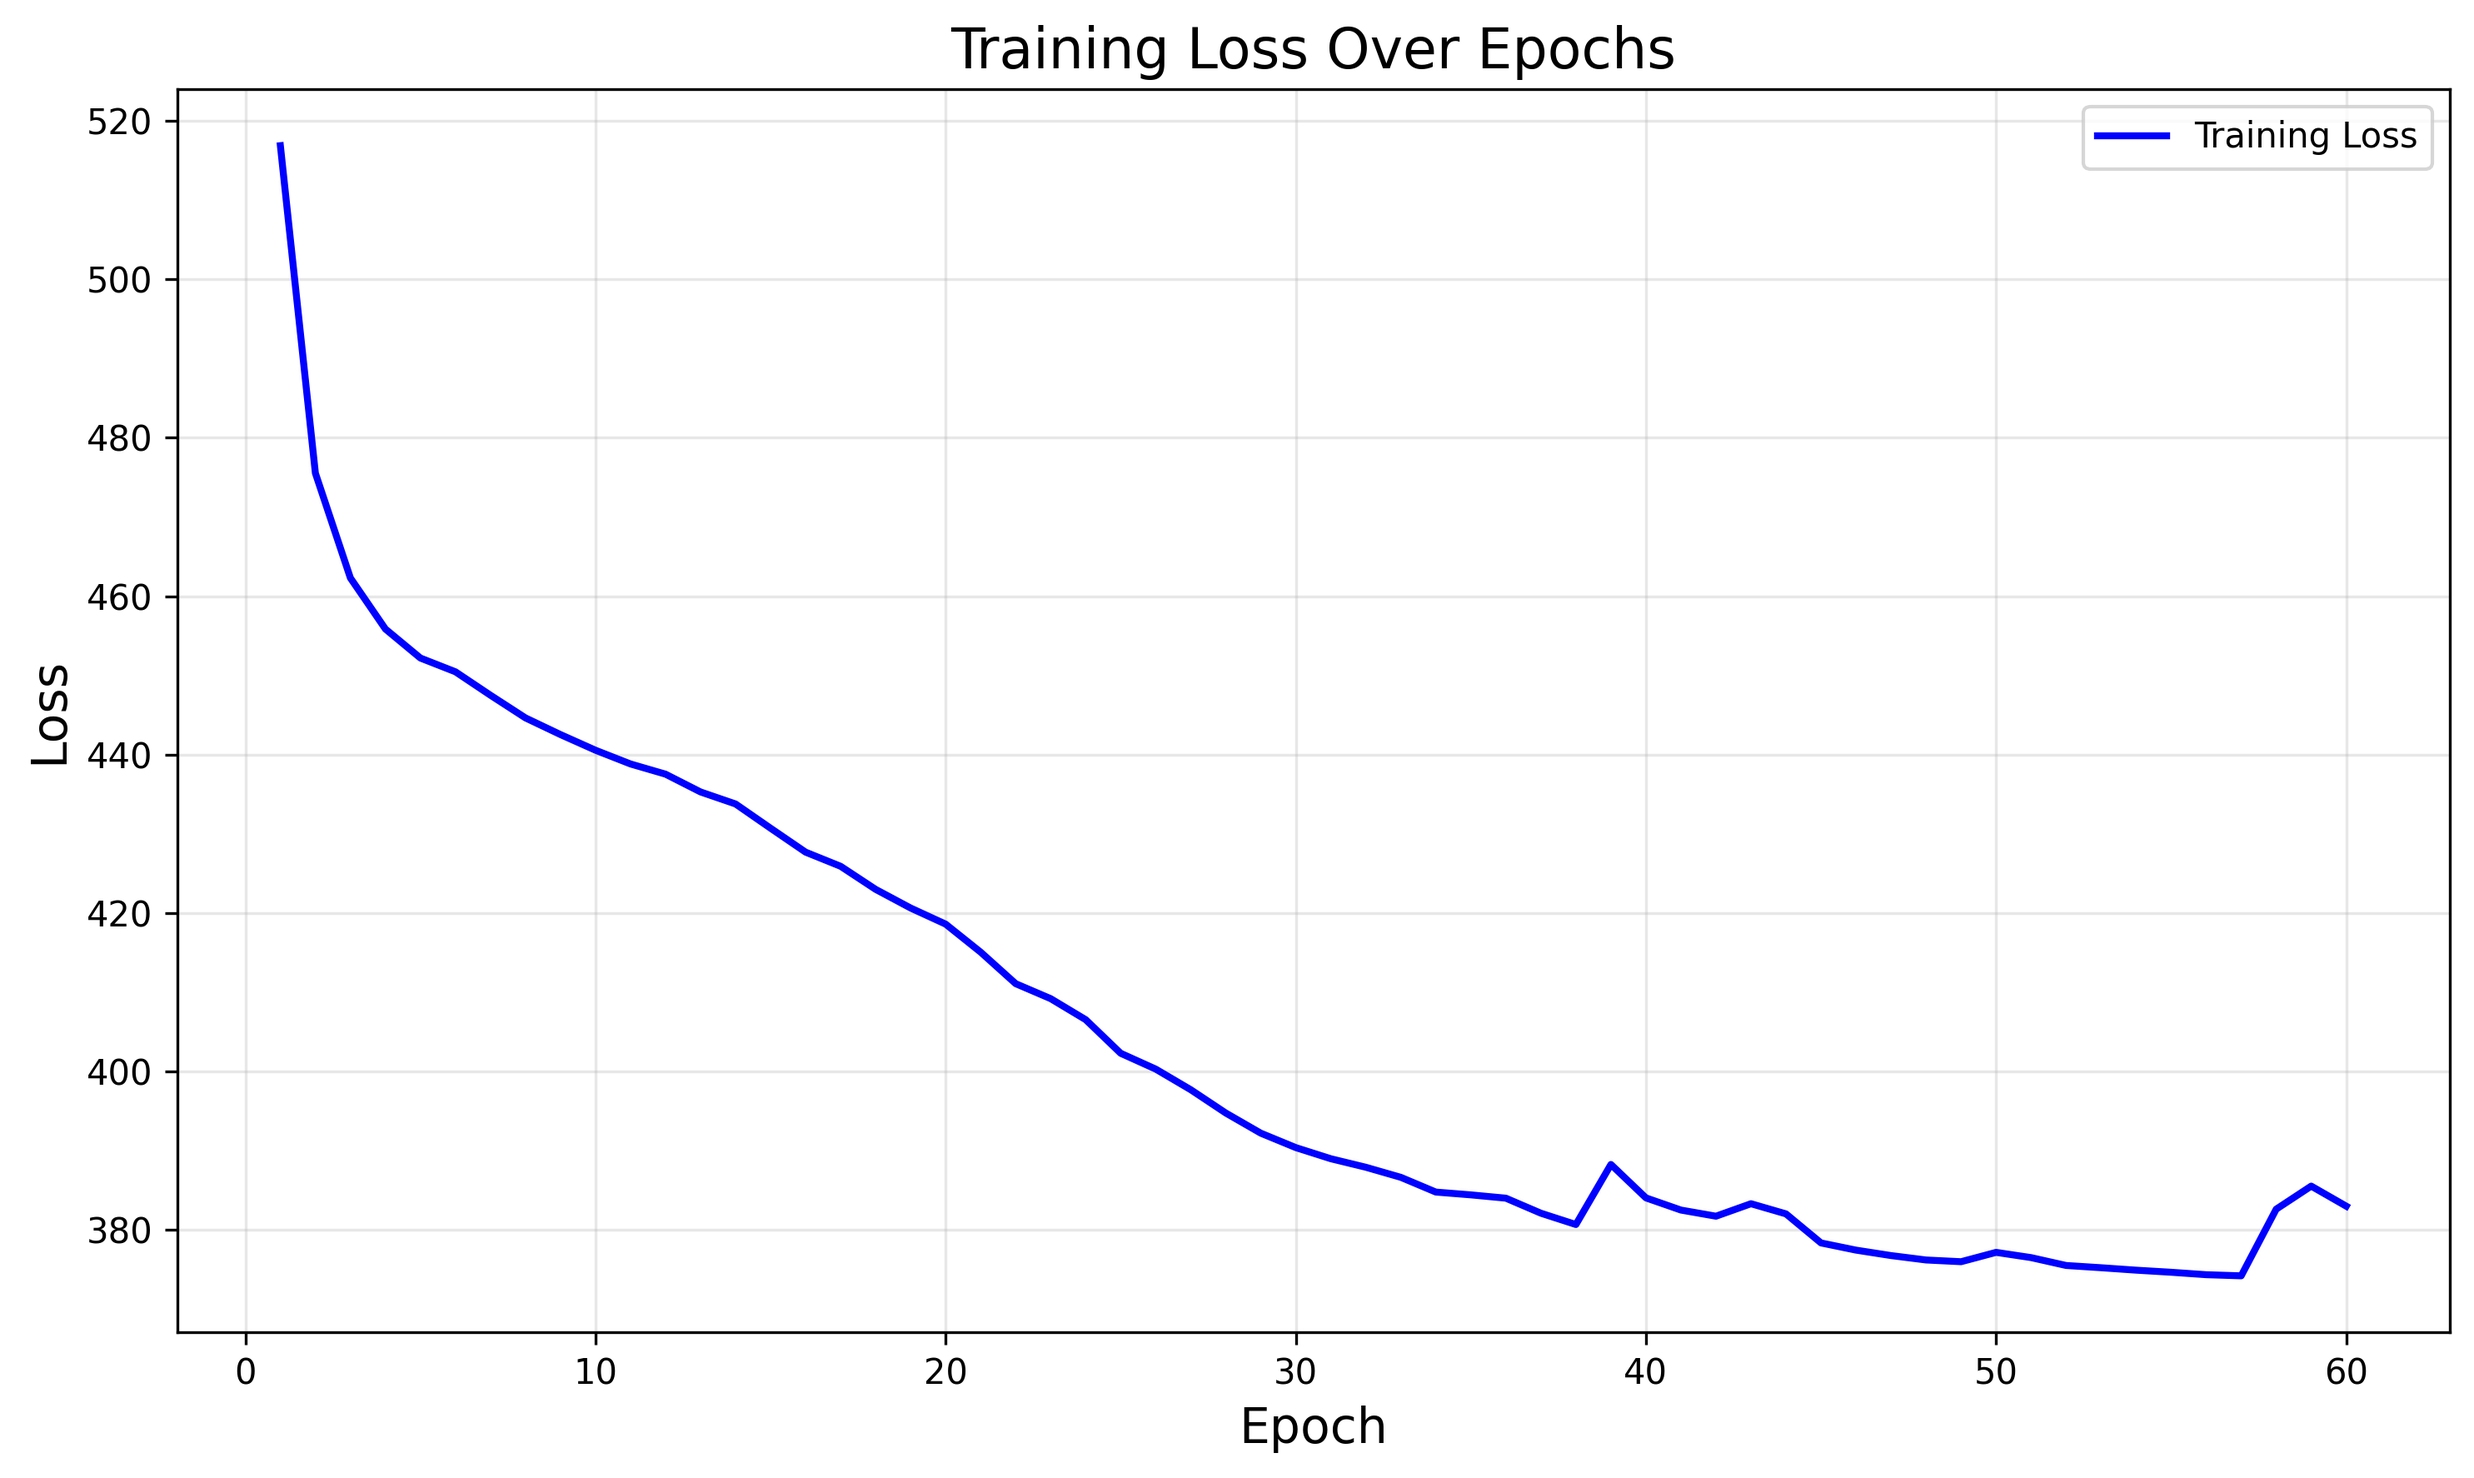
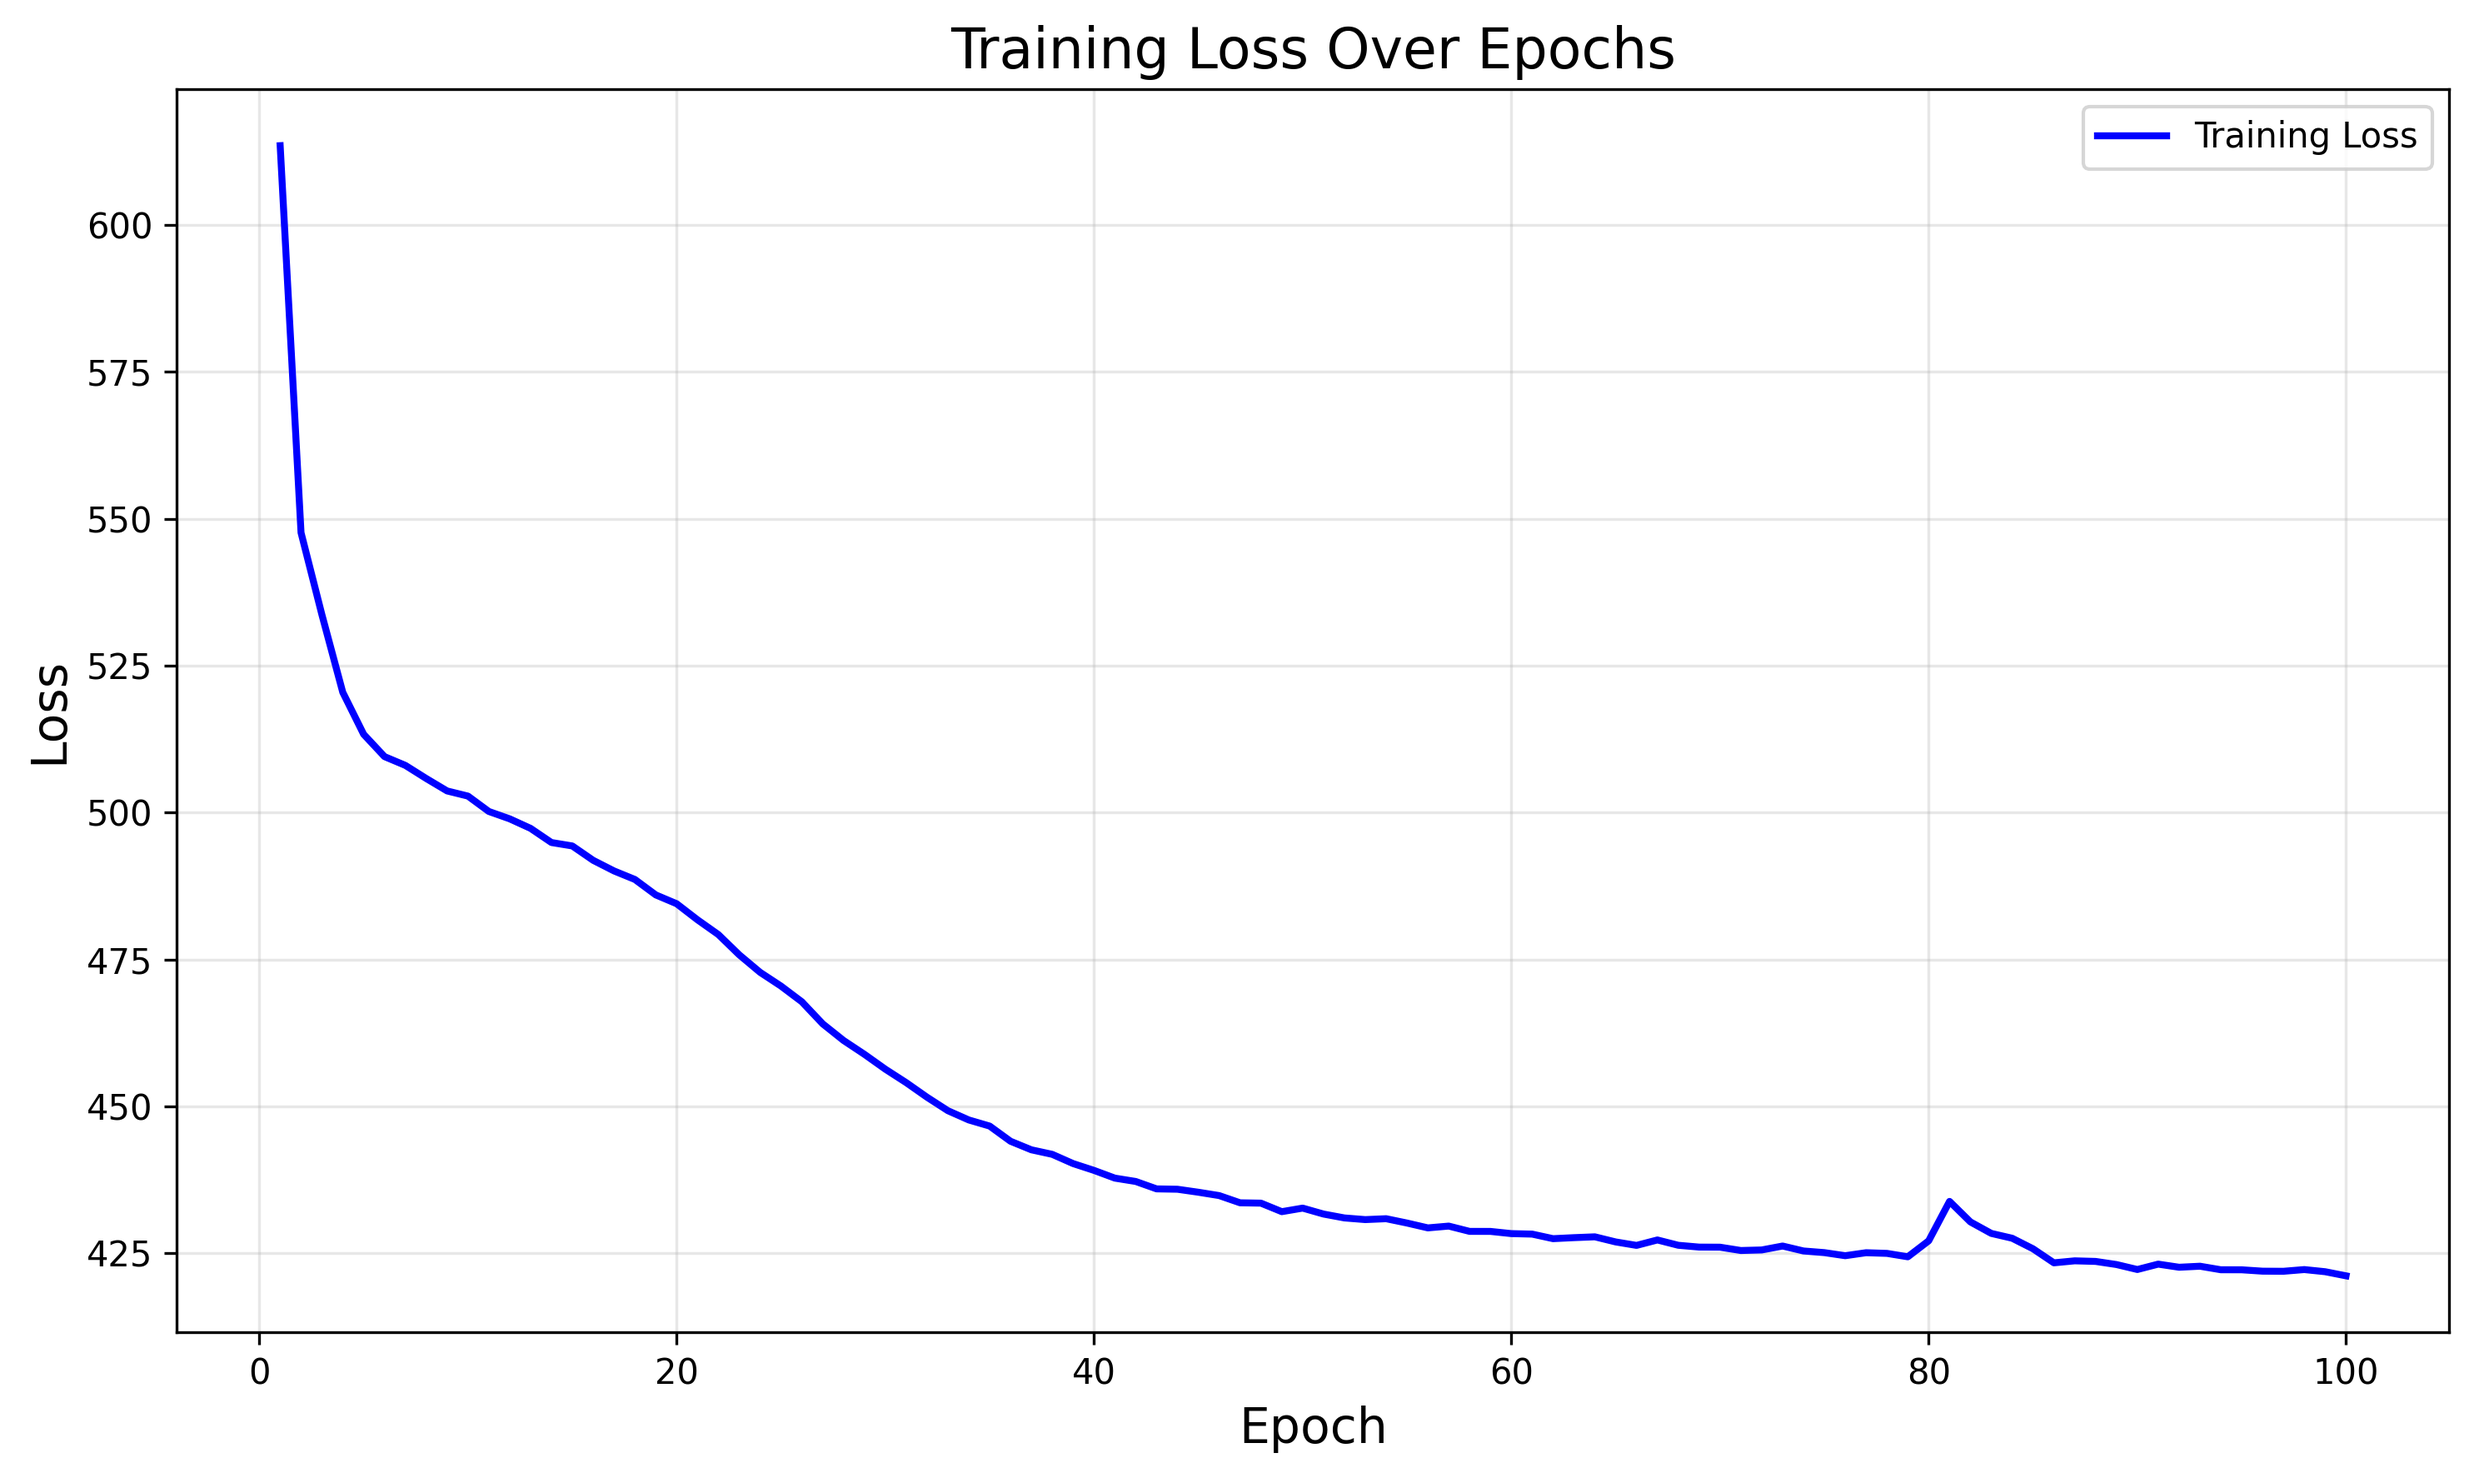
Created English sentences images

diff --git a/executables/train.py b/executables/train.py
@@ -16,7 +16,7 @@ from data.tokeniser import Tokeniser
 from model.transformer_model import TextToImageTransformer
 from model.loss_functions import PerceptualLoss
 
-TOTAL_EPOCHS = 50
+TOTAL_EPOCHS = 100
 TRAIN_DEBUG = True
 
 def plot_training_loss(losses):
@@ -38,13 +38,19 @@ def plot_training_loss(losses):
 
 def main():
     tokeniser = Tokeniser()
-    train_df = pd.read_csv("../data/expanded_sentence_image_relationships.csv")
+    # train_df = pd.read_csv("../data/expanded_sentence_image_relationships.csv")
+    train_df = pd.read_csv("../data/english_words_data/expanded_english_words_image_relationships.csv")
+    # train_df = pd.read_csv("../data/european_words_data/expanded_european_words_image_relationships.csv")
     tokeniser.build_vocabulary(train_df["sentence"])
 
     with open("../data/tokeniser_vocab.json", "w") as output:
         json.dump(tokeniser.vocab, output)
 
-    dataset = SentenceToImageDataset("../data/expanded_sentence_image_relationships.csv", tokeniser)
+    # dataset = SentenceToImageDataset("../data/expanded_sentence_image_relationships.csv", tokeniser)
+    dataset = SentenceToImageDataset("../data/english_words_data/expanded_english_words_image_relationships.csv", tokeniser)
+    # dataset = SentenceToImageDataset("../data/european_words_data/expanded_european_words_image_relationships.csv", tokeniser)
+
+
     dataloader = DataLoader(dataset, batch_size=32, shuffle=True, num_workers=6, pin_memory=True, persistent_workers=True)
 
     device = torch.device("cuda" if torch.cuda.is_available() else "cpu")

diff --git a/executables/generate_images.py b/executables/generate_images.py
@@ -18,8 +18,8 @@ TEST_GENERATOR = False
 # TEXT_TO_GENERATE = "LEFT(MORE(SOLID(FIGURES),OUTLINE(FIGURES)))"
 # TEXT_TO_GENERATE = "RIGHT(EXISTS(SMALL(FIGURES)))"
 
-TEXT_TO_GENERATE = "RIGHT(EXISTS(VERTICAL(SYMMETRY)))" 
-BP_NUMBER = 152
+TEXT_TO_GENERATE = "Big vs small" 
+BP_NUMBER = 2
 
 def force_binary_pixels(images, threshold=0.0):
     # Images are in -1, 1, so threshold can be 0.0
@@ -86,7 +86,7 @@ def create_and_save_plots(left_path, right_path, bp_number, sentence):
     plt.suptitle(f'BP {bp_number} | "{sentence}"', fontsize=18)
     ax[0].tick_params(left=False, bottom=False, labelleft=False, labelbottom=False)
     ax[1].tick_params(left=False, bottom=False, labelleft=False, labelbottom=False)
-    plt.savefig(f'../model_answers/BP_{bp_number}_{sentence}.png', dpi=300, bbox_inches='tight')
+    plt.savefig(f'../model_answers_english_sentences/BP_{bp_number}_{sentence}.png', dpi=300, bbox_inches='tight')
     print(f'Saved BP_{bp_number}_{sentence}.png')
     plt.close()
     
@@ -111,7 +111,7 @@ def main():
     # To create and save images for all data found in bongard_problems_to_test.csv
     generate_and_save_all_image_outputs(model, tokeniser, device)
 
-    # # To manually create images for a given text and bp 
+    # To manually create images for a given text and bp 
     # left_path, right_path = generate_and_save_images(model, tokeniser, TEXT_TO_GENERATE, device)
     # create_and_save_plots(left_path, right_path, BP_NUMBER, TEXT_TO_GENERATE)
 

diff --git a/executables/expand_data.py b/executables/expand_data.py
@@ -8,7 +8,8 @@ def get_image_pair_identifers():
     return [(left, right) for right in range(6, 12) for left in range(6)]
 
 def generate_data():
-    simple_sentence_image_relationships_df = pd.read_csv("../data/simple_sentence_image_relationships.csv")
+    # simple_sentence_image_relationships_df = pd.read_csv("../data/simple_sentence_image_relationships.csv")
+    simple_sentence_image_relationships_df = pd.read_csv("../data/european_words_data/european_words_image_relationships.csv")
     expanded_sentence_image_relationships = []
     image_pair_identifiers = get_image_pair_identifers()
     for row in simple_sentence_image_relationships_df.itertuples():
@@ -25,6 +26,8 @@ def generate_data():
 
     expanded_sentence_image_relationships_df = pd.DataFrame(expanded_sentence_image_relationships)
     expanded_sentence_image_relationships_df.to_csv("../data/expanded_sentence_image_relationships.csv", index=False, quoting=csv.QUOTE_NONNUMERIC)
+    # expanded_sentence_image_relationships_df.to_csv("../data/european_words_data/expanded_european_words_image_relationships.csv", index=False, quoting=csv.QUOTE_NONNUMERIC)
+
 
 if __name__ == "__main__":
     generate_data()
